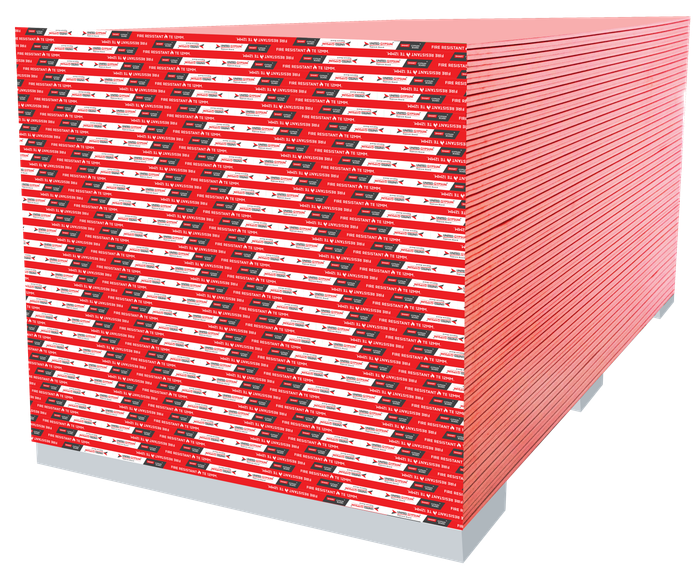
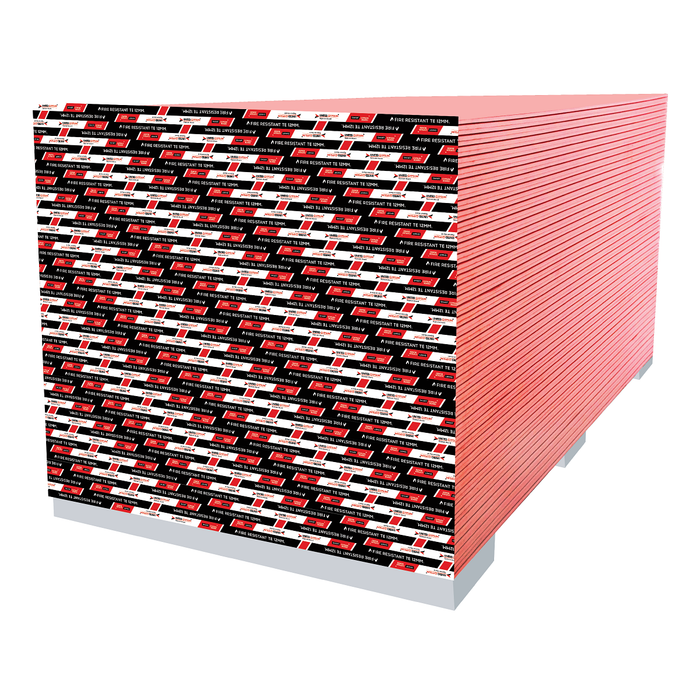
Real board photography: Mix, Fire, Heat, and new Perforated variant
- Swapped in the client's new studio photography: the board family
  hero shot (5-pallet Mix), and real Fire Resistant and Heat Resistant
  pallet photos (Heat Resistant finally has a genuine product photo,
  was reusing the Standard board photo as a placeholder before)
- Added Perforated (Smart Echo Shield) as a fifth board variant on the
  Smart Gypsum Board page, and as a new calculator room type
  ("Auditorium / Conference Room (Acoustic)") with its own real photo,
  alongside Standard/Moisture/Fire/Heat

Claude-Session: https://claude.ai/code/session_014qKvW3C4M1rWZQeVGgTqyU

diff --git a/src/lib/ceilingCalc.ts b/src/lib/ceilingCalc.ts
@@ -23,7 +23,7 @@ export type LengthUnit = "feet" | "meters";
  * (a foil-backed option layered on any of the three) for attics/top floors
  * exposed to direct heat and sunlight.
  */
-export type BoardType = "standard" | "moisture" | "fire" | "heat";
+export type BoardType = "standard" | "moisture" | "fire" | "heat" | "perforated";
 
 export const BOARD_TYPES: Record<
   BoardType,
@@ -33,6 +33,10 @@ export const BOARD_TYPES: Record<
   moisture: { label: "Moisture Resistant Board", image: "/images/board-moisture.png" },
   fire: { label: "Fire Resistant Board", image: "/images/board-fire.png" },
   heat: { label: "Heat Resistant Board", image: "/images/board-heat.png" },
+  perforated: {
+    label: "Perforated Board (Smart Echo Shield)",
+    image: "/images/board-perforated.png",
+  },
 };
 
 export const ROOM_TYPES: {
@@ -43,6 +47,11 @@ export const ROOM_TYPES: {
   { value: "living", label: "Bedroom / Living Room", boardType: "standard" },
   { value: "wet", label: "Bathroom / Laundry Area", boardType: "moisture" },
   { value: "hot-zone", label: "Kitchen / Server Room", boardType: "fire" },
+  {
+    value: "acoustic",
+    label: "Auditorium / Conference Room (Acoustic)",
+    boardType: "perforated",
+  },
   { value: "attic", label: "Attic / Top Floor (Heat Exposed)", boardType: "heat" },
 ];
 

diff --git a/src/lib/products.ts b/src/lib/products.ts
@@ -90,6 +90,10 @@ export const products: Record<string, Product> = {
         name: "Foil Backed",
         body: "Great for interior insulation of exterior walls. In cold climates it acts as an effective vapour retarder, preventing interior moisture from penetrating wall and ceiling spaces. The back liner carries an aluminium foil sheet that reflects 95% of thermal radiation.",
       },
+      {
+        name: "Perforated (Smart Echo Shield)",
+        body: "A perforated gypsum board that absorbs and diffuses sound, cutting reverberation in auditoriums, cinemas, conference rooms and open-plan offices while keeping the fire and durability performance of a standard board.",
+      },
     ],
     spec: {
       columns: [

diff --git a/src/components/sections/CeilingCalculator.tsx b/src/components/sections/CeilingCalculator.tsx
@@ -181,7 +181,9 @@ export default function CeilingCalculator({
                     Picks the right Smart Gypsum Board variant for the space:
                     Standard for general rooms, Moisture Resistant for
                     bathrooms and laundry areas, Fire Resistant for kitchens
-                    and server rooms, Heat Resistant for attics and top floors.
+                    and server rooms, Perforated for auditoriums and
+                    conference rooms needing acoustic control, Heat Resistant
+                    for attics and top floors.
                   </span>
                 </label>
               )}
